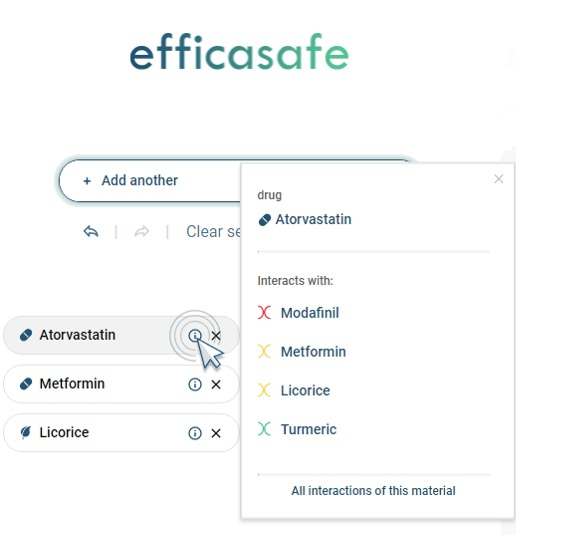
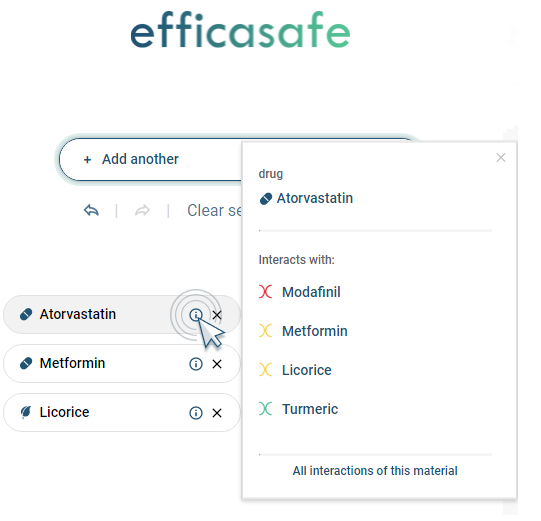
tour color and new home page photos

diff --git a/src/client/styles/views/_search-engine.scss b/src/client/styles/views/_search-engine.scss
@@ -331,6 +331,17 @@
                     padding: rem(20px) 0;
                 }
             }
+
+            .vertical-msg{
+                box-shadow: 0px 2px 4px rgba($black, .1);
+                border: 1px solid $clr6;
+                display: inline-block;
+                text-align: center;
+                line-height: rem(19px);
+                padding: rem(12px) rem(18px);
+                max-width: rem(206px);
+                background-color: #fff;
+            }
         }
         [type=radio]:checked + svg {
             rect {
@@ -440,7 +451,7 @@
         width: 25ch;
     }
     .v-tour .v-step {
-        background-color: #163246;
+        background-color: #349f88;
         border-radius: 15px;
         box-shadow: 0px 3px 8px rgba($black, .15);
         padding: rem(16px) rem(24px);
@@ -480,6 +491,10 @@
             border-radius: 15px;
             width: 100%;
             margin: rem(12px) 0;
+        }
+
+        .big-container{
+            width: 30rem;
         }
     }
     

diff --git a/src/client/cmps/search-engine/OnboardingTour.vue b/src/client/cmps/search-engine/OnboardingTour.vue
@@ -251,7 +251,7 @@ export default {
                 {
                     target: '.v-tour1-step-0',
                     content: `
-                        <div class="v-step-container">
+                        <div class="v-step-container big-container">
                             <p class="v-step-txt">
                                 Click on any search result to discover more information.
                             </p>
@@ -429,7 +429,7 @@ export default {
                 {
                     target: '.v-tour1-step-0',
                     content: `
-                        <div class="v-step-container">
+                        <div class="v-step-container big-container">
                             <p class="v-step-txt">
                                 Click on any search result to discover more information.
                             </p>

diff --git a/src/client/views/SearchEngine.vue b/src/client/views/SearchEngine.vue
@@ -254,7 +254,7 @@
                                 right
                             >
                                 <template #content>
-                                    <span class="msg">
+                                    <span class="vertical-msg">
                                         Vertical view is available for registered users
                                     </span>
                                 </template>
@@ -1429,6 +1429,7 @@ export default {
                 }
                 this.$store.commit('reduceFreeSearches');
             }
+            // this.$store.dispatch({type: 'countSearches', query});
             if (this.$route.query.q) {
                 if (!this.isQueryExists(query)) {
                     const queries = [ ...this.$route.query.q, query ];

diff --git a/src/client/views/Home.vue b/src/client/views/Home.vue
@@ -107,10 +107,12 @@
                 <li class="home-content-list-item">
                     <article class="main-container">
                         <h1>Search</h1>
-                        <p>
+                        <p class="margin-bottom-40">
                             <span class="font-bold">Cross check</span> multiple
                             Drug-Drug and Herb-Supplement-Drug interactions
                             instantly.
+                        </p>
+                        <p>
                             <span class="font-bold">Receive</span> concise
                             recommendations, summaries, and detailed study
                             reviews.

diff --git a/src/cms/store/index.js b/src/cms/store/index.js
@@ -11,6 +11,7 @@ import { drugBankStore } from './modules/drug-bank.store';
 import { featuredInteractionStore } from './modules/featured-interaction.store';
 
 import { manageService } from '@/cms/services/manage.service'
+import { statisticsService } from '@/cms/services/statistics.service'
 
 Vue.use(Vuex)
 
@@ -143,6 +144,9 @@ export default new Vuex.Store({
     async updateManagementData({ commit }, { manage }){
       const newManage = await manageService.update(manage);
       commit({ type: 'setManagementData', newManage });
+    },
+    async countSearches(action, { query }){
+      await statisticsService.addSearch(query)
     }
   },
   plugins: [

diff --git a/src/client/styles/views/_home.scss b/src/client/styles/views/_home.scss
@@ -385,8 +385,15 @@
                     position: absolute;
 
                     &-1 {
-                        top: 32px;
-                        right: 236px;
+                        width: 387px;
+                        top: 13px;
+                        right: 126px;
+
+                        @include for-wide-layout {
+                            width: 445px;
+                            top: 21px;
+                            right: 194px;
+                        }
                     }
 
                     &-2 {

diff --git a/src/cms/services/manage.service.js b/src/cms/services/manage.service.js
@@ -4,7 +4,7 @@ const END_POINT = 'manage';
 
 export const manageService = {
     list,
-    update
+    update,
 }
 
 function list() {
@@ -13,5 +13,4 @@ function list() {
 
 function update(manage) {
     return httpService.put(`${END_POINT}/${manage._id}`, manage);
-
 }

diff --git a/src/client/styles/views/_interaction-details.scss b/src/client/styles/views/_interaction-details.scss
@@ -366,7 +366,7 @@
         }
     }
     .v-tour .v-step {
-        background-color: #163246;
+        background-color: #349f88;
         border-radius: 15px;
         box-shadow: 0px 3px 8px rgba($black, .15);
         padding: rem(16px) rem(24px);

diff --git a/src/cms/services/statistics.service.js b/src/cms/services/statistics.service.js
@@ -1,0 +1,12 @@
+import { httpService } from './http.service.js';
+
+const END_POINT = 'statistics';
+
+export const statisticsService = {
+    addSearch
+}
+
+function addSearch(query) {
+    return httpService.put(END_POINT, query);
+
+}

diff --git a/src/client/styles/global/_helpers.scss b/src/client/styles/global/_helpers.scss
@@ -78,6 +78,9 @@
     font-family: roboto-bold, sans-serif;
     font-weight: 700;
 }
+.margin-bottom-40{
+    margin-bottom: 40px;
+}
 .font-medium {
     font-family: roboto-medium, sans-serif;
     font-weight: 500;
